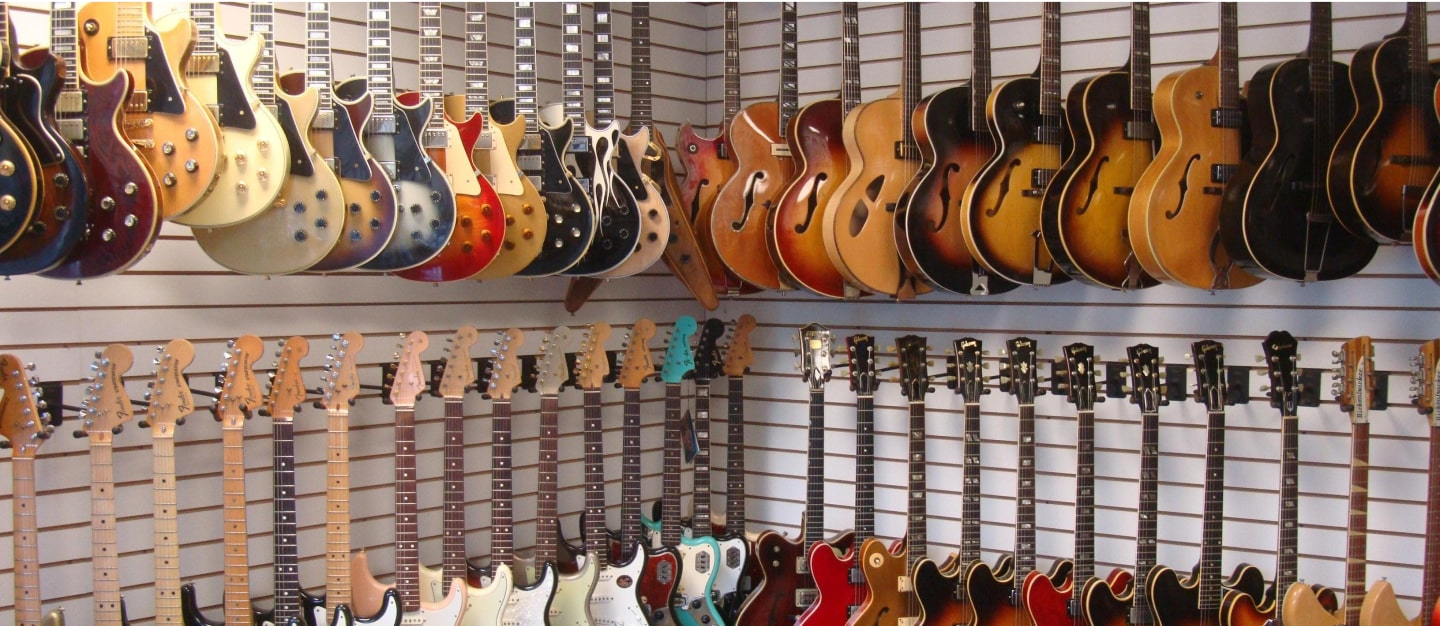
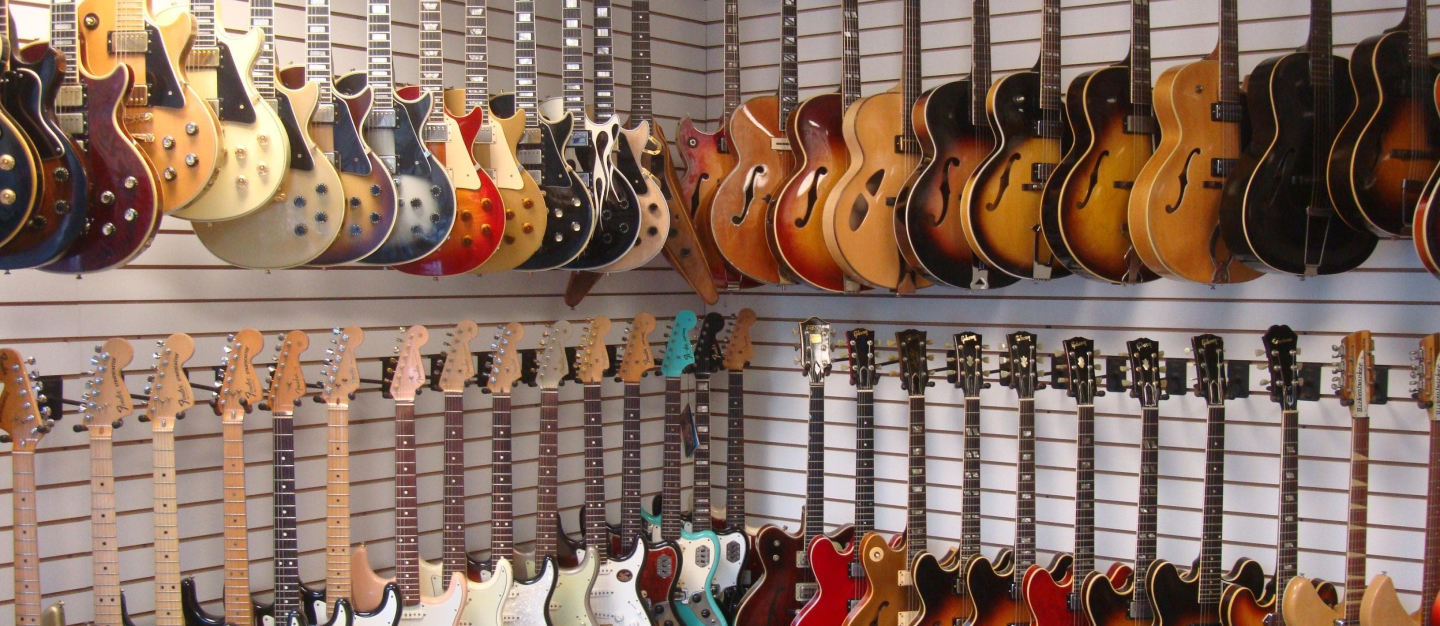
edit about us

diff --git a/css/about-us.css b/css/about-us.css
@@ -15,7 +15,7 @@ a{
     position: relative;
     width: 100%;
     height: 626px;
-    background-image: linear-gradient(rgba(0, 0, 0, 0.3), rgba(0, 0, 0, 0.3)), url(../assets/about-us/header.png);
+    background-image: linear-gradient(rgba(0, 0, 0, 0.3), rgba(0, 0, 0, 0.3)), url(../assets/about-us/header.jpg);
     background-position: center;
     background-size: cover;
 }
@@ -227,6 +227,16 @@ a{
     .container h1{
         font-size: 24px;
     }
+
+    .story-row{
+        display: block;
+        margin-bottom: 10px;
+    }
+
+    .story-row img{
+        width: 60%;
+        margin-bottom: 20px;
+    }
 }
 
 @media (max-width: 450px) {
@@ -268,10 +278,6 @@ a{
 
     .why-tanaka{
         padding-bottom: 0;
-    }
-
-    .story-row{
-        display: block;
     }
 
     .story-row img{
